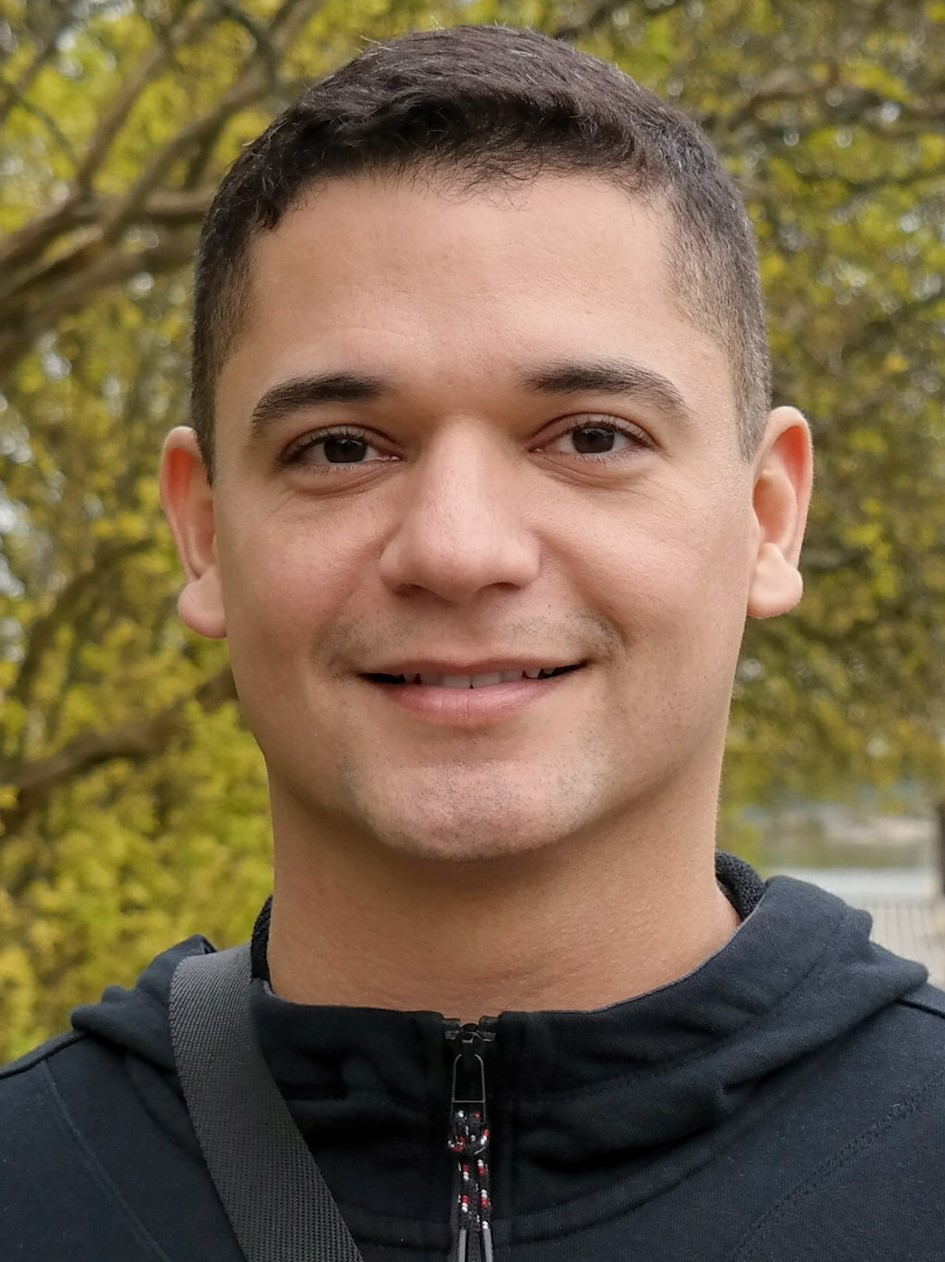
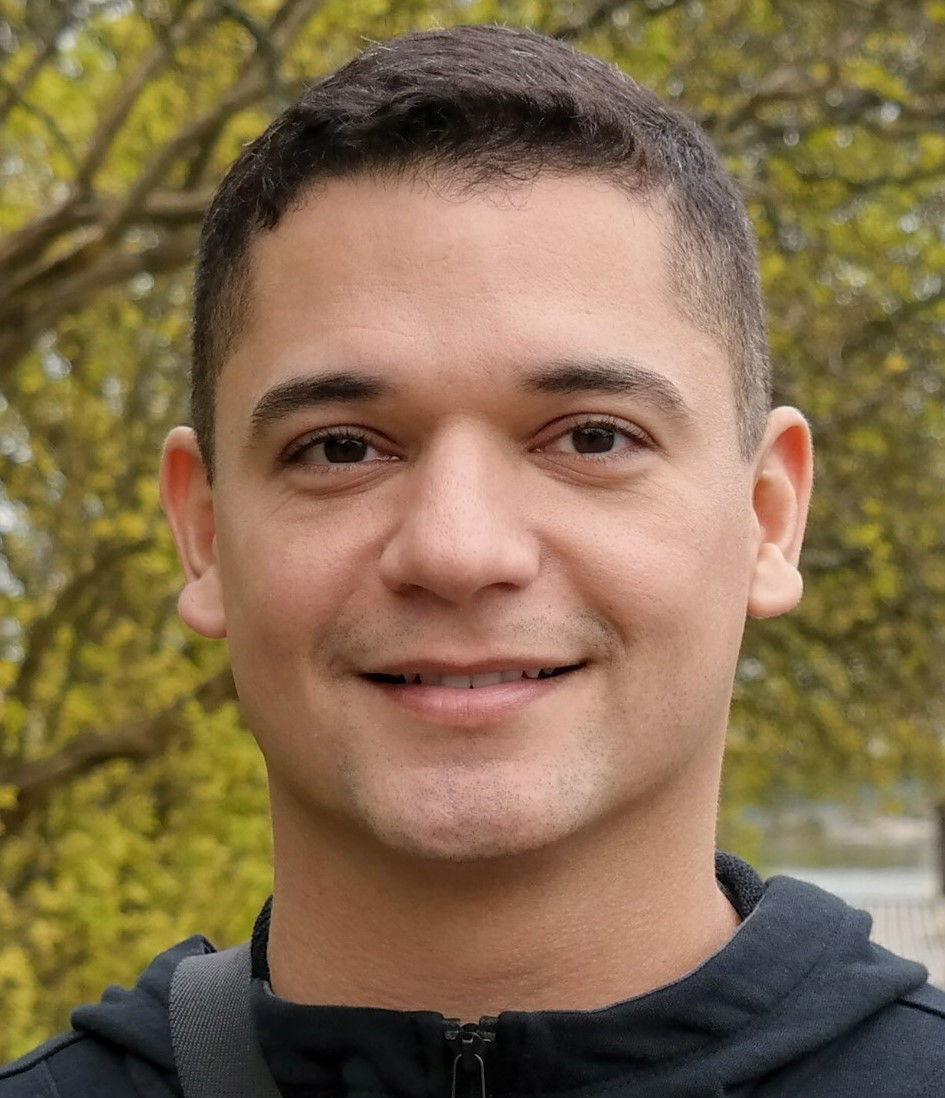
fix: photos

diff --git a/src/components/Organizers/index.tsx b/src/components/Organizers/index.tsx
@@ -15,7 +15,7 @@ function OrganizadorCard(props: Chair) {
       <div className={styles['card__image']}>
         <Image
           width={200}
-          height={180}
+          height={200}
           src={image?.startsWith('http') ? image : `/images/organizadores/${image || 'default.jpg'}`}
           alt={'perfil'}
         />

diff --git a/src/components/Organizers/styles.module.scss b/src/components/Organizers/styles.module.scss
@@ -22,7 +22,7 @@
 
   .card__image {
     width: 200px;
-    height: 180px;
+    height: 200px;
     overflow: hidden;
     display: flex;
     align-items: center;
